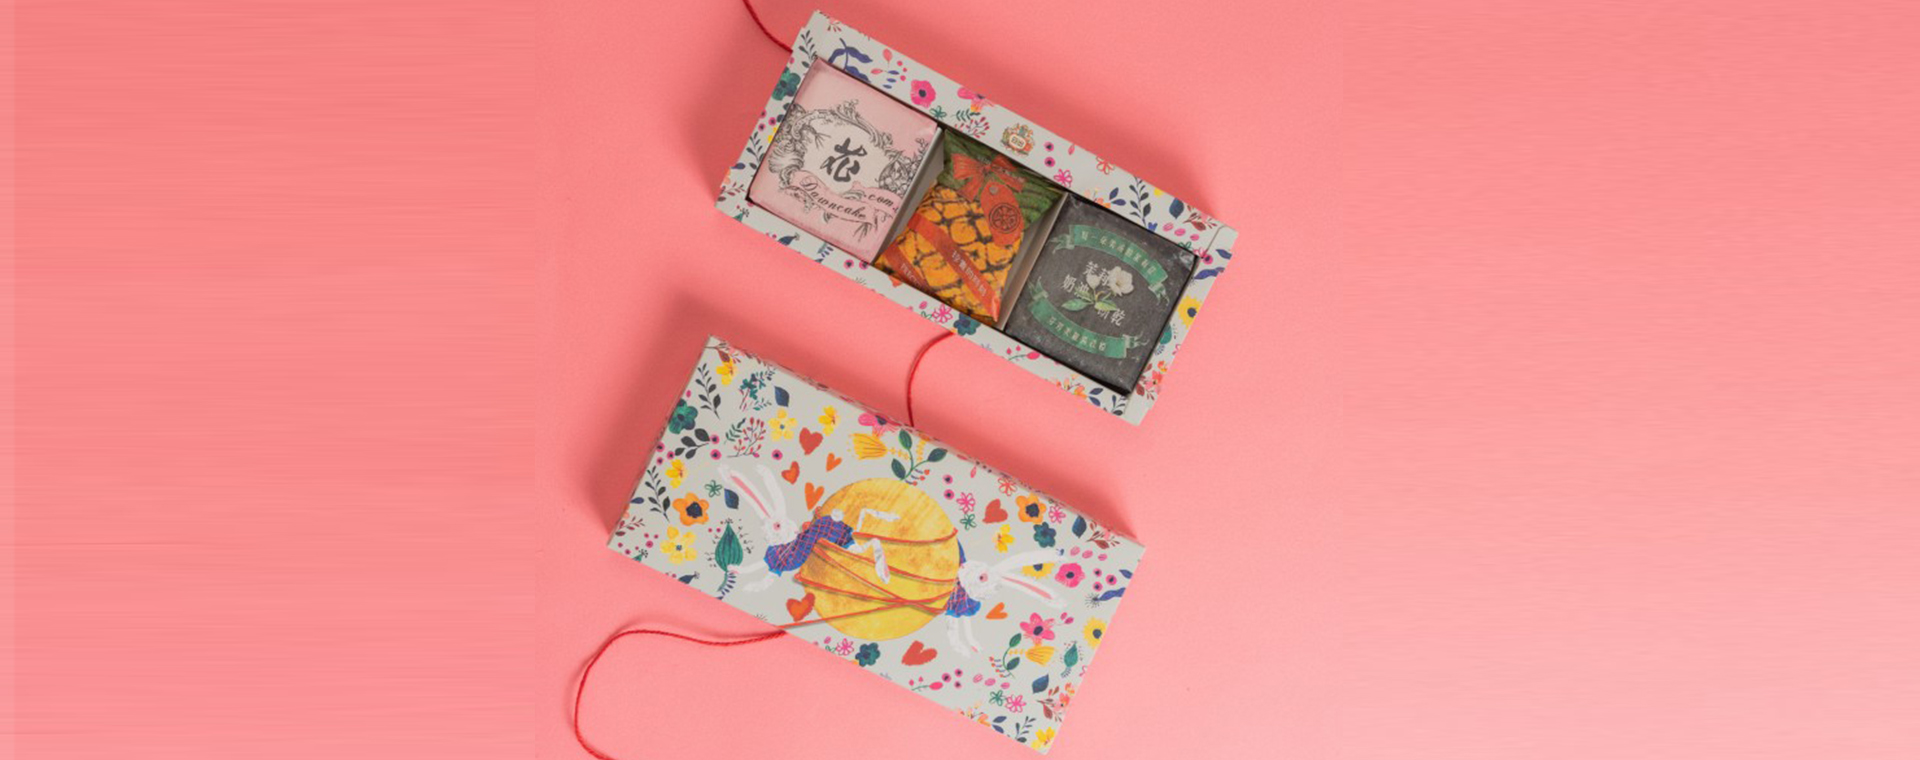
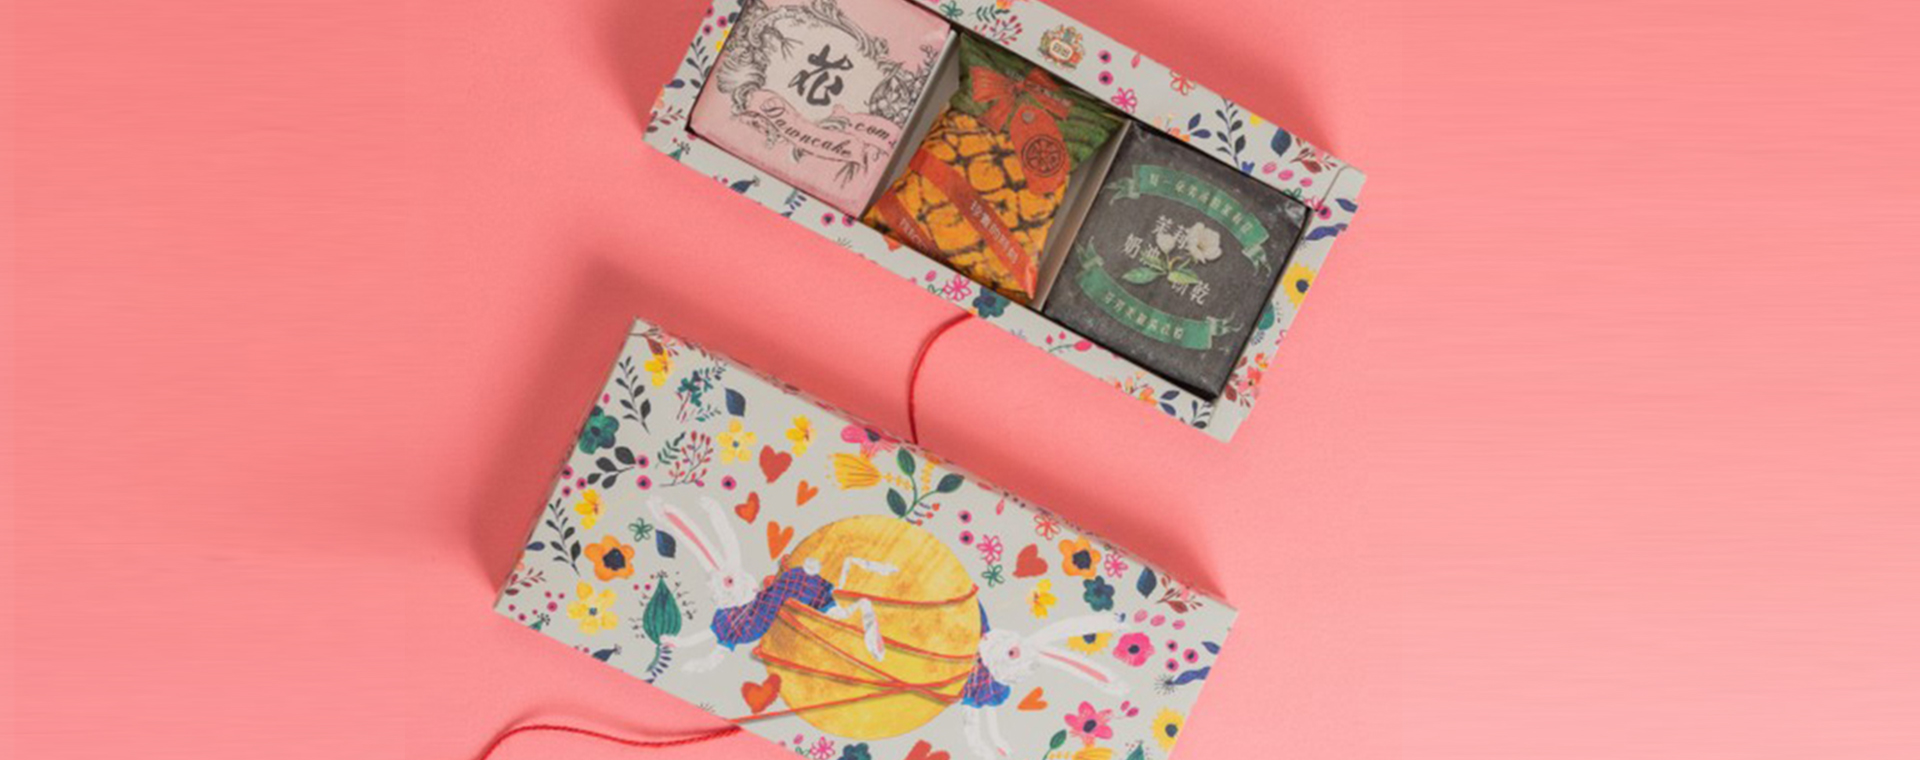
改商品圖

Changed region(s): [[0.2188, 0.3329, 0.6562, 1.0], [0.3125, 0.0, 0.7188, 0.575], [0.4688, 0.4842, 0.5, 0.5145]]

diff --git a/product_index.html b/product_index.html
@@ -170,7 +170,7 @@
                         <div class="col"></div>
                         <div class="col">
                             <h2>
-                                可愛又精緻的文創結緣商品， <br>
+                                可愛又精緻的結緣小物， <br>
                                 幫你牽起美好緣分！
                             </h2>
                             <h6>
@@ -241,7 +241,7 @@
     </div>
 
     <div class="product_meow">
-        
+
     </div>
 
     
